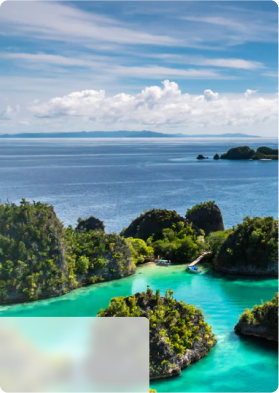
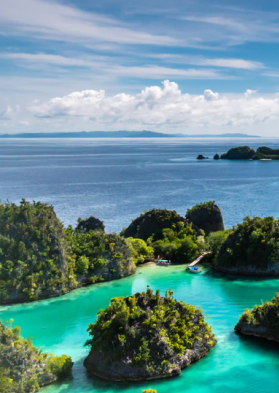
add fav & reserv

Changed region(s): [[0.0, 0.3359, 1.0, 1.0], [0.9749, 0.0, 1.0, 0.2443], [0.0, 0.0, 0.0287, 0.0305]]

diff --git a/destinize/index.html b/destinize/index.html
@@ -115,17 +115,102 @@
       <header>
         <div class="left">
           <p class="title">DESTINASI FAVORIT</p>
-          <h2 class="caption">✈ • Temukan Destinasi Favoritmu  </h2>
+          <h2 class="caption">✈ • Temukan Destinasi Favoritmu</h2>
         </div>
         <div class="right">
           <a href="#">Lihat semua <i class="bi bi-chevron-right"></i></a>
         </div>
       </header>
       <div class="wrap">
-        <img src="assets/rajaampat.png" alt="">
-        <img src="assets/rajaampat.png" alt="">
-        <img src="assets/rajaampat.png" alt="">
-        <img src="assets/rajaampat.png" alt="">
+        <div id="rajaampat" class="mark">
+          <div class="txt">
+            <h4>Raja Ampat</h4>
+            <p>Papua</p>
+          </div>
+        </div>
+        <div id="labuanbajo" class="mark">
+          <div class="txt">
+            <h4>Labuan Bajo</h4>
+            <p>NTT</p>
+          </div>
+        </div>
+        <div id="kawahijen" class="mark">
+          <div class="txt">
+            <h4>Kawah Ijen</h4>
+            <p>Jawa Timur</p>
+          </div>
+        </div>
+        <div id="bromo" class="mark">
+          <div class="txt">
+            <h4>Bromo</h4>
+            <p>Jawa Timur</p>
+          </div>
+        </div>
+      </div>
+    </section>
+
+    <section>
+      <div class="wrap">
+        <div class="left">
+          <header>
+            <p class="title">RESERVASI TEMPAT</p>
+            <h2 class="caption">Gak mau ngantri? reservasi aja! 🤙</h2>
+          </header>
+          <ul class="how">
+            <li>
+              <i class="icon">🔎</i>
+              <div class="det">
+                <span>Cari tempat yang kamu mau</span>
+                <p>Temukan destinasi selanjutnya yang akan kamu kunjungi dengan Destinize</p>
+              </div>
+            </li>
+            <li>
+              <i class="icon">✏ </i>
+              <div class="det">
+                <span>Isi data dan konfirmasi pembayaran</span>
+                <p>Tulis dan lengkapi data kamu untuk keperluan data booking</p>
+              </div>
+            </li>
+            <li>
+              <i class="icon">😍</i>
+              <div class="det">
+                <span>Tinggal masuk dan enjoy!</span>
+                <p>Kamu bisa langsung masuk dan enjoy liburan kamu tanpa hambatan</p>
+              </div>
+            </li>
+          </ul>
+        </div>
+        
+        <div class="right">
+          <div class="card">
+            <img src="assets/bbali.jpg" alt="bali">
+            <h2>Liburan ke Bali 🚗</h2>
+            <p>14-29 Juni | by Shandika</p>
+            <div class="options">
+              <i class="bi bi-calendar-event"></i>
+              <i class="bi bi-map"></i>
+              <i class="bi bi-send"></i>
+            </div>
+            <div class="info">
+              <p><i class="bi bi-buildings"></i> 12 orang pergi bersama</p>
+              <i class="bi bi-heart"></i>
+            </div>
+          </div>
+          <div class="ongoing">
+            <figure>
+              <img src="assets/indo.png" alt="">
+            </figure>
+            <figcaption>
+              <p>ongoing</p>
+              <h2>Jelajahi Indonesia</h2>
+              <p><span>40%</span>Completed</p>
+              <svg xmlns="http://www.w3.org/2000/svg" width="169" height="6" viewBox="0 0 169 6" fill="none">
+                <rect x="0.677734" y="0.369141" width="167.483" height="5.36804" rx="2.68402" fill="#F5F5F5"/>
+                <rect x="0.677734" y="0.369141" width="78.3734" height="5.36804" rx="2.68402" fill="#4475F2"/>
+              </svg>
+            </figcaption>
+          </div>
+        </div>
       </div>
     </section>
     

diff --git a/destinize/style.css b/destinize/style.css
@@ -23,6 +23,10 @@ button {
   text-decoration: none;
 }
 
+li {
+  list-style: none;
+}
+
 /* nav { */
 /*   display: flex; */
 /*   flex-direction: column; */
@@ -168,7 +172,7 @@ button#putar {
 }
 
 section {
-  margin: 0 100px;
+  margin: 30px 100px;
 }
 
 section#partner {
@@ -203,7 +207,128 @@ section#favorite >header {
 
 .wrap {
   display: flex;
+  /* justify-content: space-between; */
+  gap: 30px;
+}
+
+.mark {
+  min-width: 278.462px;
+  min-height: 392.365px;
+  border-radius: 10px;
+  display: flex;
+  flex-direction: column;
+  justify-content: end;
+}
+
+.txt {
+  border-radius: 0px 6px 0px 0px;
+  background: rgba(255, 255, 255, 0.70);
+  backdrop-filter: blur(5px);
+  width: 50%;
+  padding: 10px 0;
+  padding-left: 15px;
+}
+
+.txt p {
+  color: #80918E;
+}
+
+#rajaampat {
+  background: url(assets/rajaampat.png);
+}
+
+#labuanbajo {
+  background: url(assets/labuanbajo.png);
+}
+
+#kawahijen {
+  background: url(assets/kawahijen.png);
+}
+
+#bromo {
+  background: url(assets/bromo.png);
+}
+
+.left {
+  width: 50%;
+  display: flex;
+  flex-direction: column;
+  gap: 30px;
+}
+
+ul.how {
+  display: flex;
+  flex-direction: column;
+  gap: 50px;
+  color: var(--text-color);
+}
+
+ul.how li {
+  display: flex;
+  gap: 20px;
+  align-items: center;
+}
+
+ul.how li .icon{
+  display: flex;
+  align-items: center;
+  padding: 8px 10px;
+  height: max-content;
+  border-radius: 13px;
+  background-color: #EFE0B4;
+  font-weight: bold;
+  font-size: 20px;
+}
+
+ul.how span {
+  font-weight: bold;
+}
+
+.right {
+  width: max-content;
+}
+
+.card {
+  /* background-color: white; */
+  z-index: 1;
+  padding: 20px 25px;
+  border-radius: 26px;
+  height: 100%;
+  display: flex;
+  flex-direction: column;
+  justify-content: space-between;
+box-shadow: 0px 1.85185px 3.14815px 0px rgba(0, 0, 0, 0.00), 0px 8.14815px 6.51852px 0px rgba(0, 0, 0, 0.01), 0px 20px 13px 0px rgba(0, 0, 0, 0.01), 0px 38.51852px 25.48148px 0px rgba(0, 0, 0, 0.01), 0px 64.81481px 46.85185px 0px rgba(0, 0, 0, 0.02), 0px 100px 80px 0px rgba(0, 0, 0, 0.02);
+}
+
+.card > img {
+  width: 344.628px;
+  height: 172.851px;
+  border-radius: 22px;
+}
+
+.card .info {
+  display: flex;
   justify-content: space-between;
 }
 
+.card .options i {
+  padding: 10px;
+  background-color: var(--circle, #F5F5F5);
+  border-radius: 50%;
+  cursor: pointer;
+  margin-right: 5px;
+}
 
+.ongoing {
+  display: flex;
+  gap: 10px;
+  position: relative;
+  float: right;
+  bottom: 40%;
+  left: 30%;
+  padding: 15px 20px;
+  border-radius: 18px;
+  box-shadow: 0px 1.85185px 3.14815px 0px rgba(0, 0, 0, 0.00), 0px 8.14815px 6.51852px 0px rgba(0, 0, 0, 0.01), 0px 20px 13px 0px rgba(0, 0, 0, 0.01), 0px 38.51852px 25.48148px 0px rgba(0, 0, 0, 0.01), 0px 64.81481px 46.85185px 0px rgba(0, 0, 0, 0.02), 0px 100px 80px 0px rgba(0, 0, 0, 0.02);
+  z-index: 5;
+
+}
